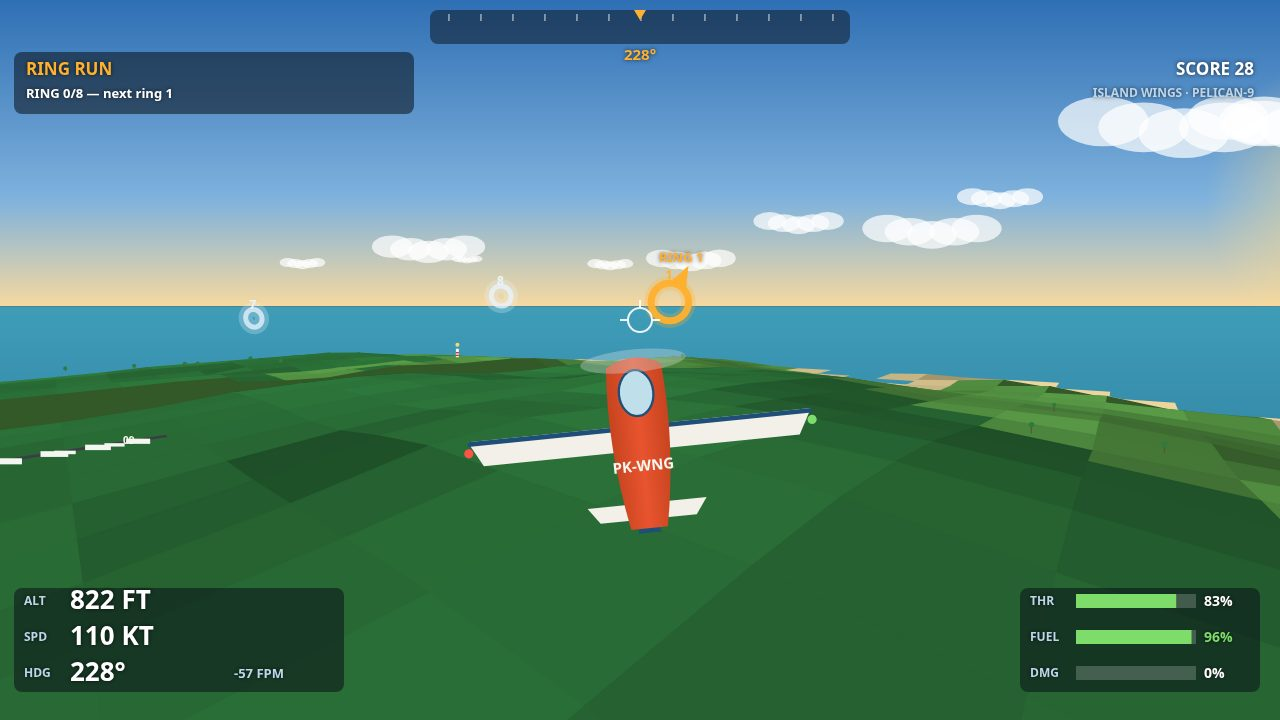
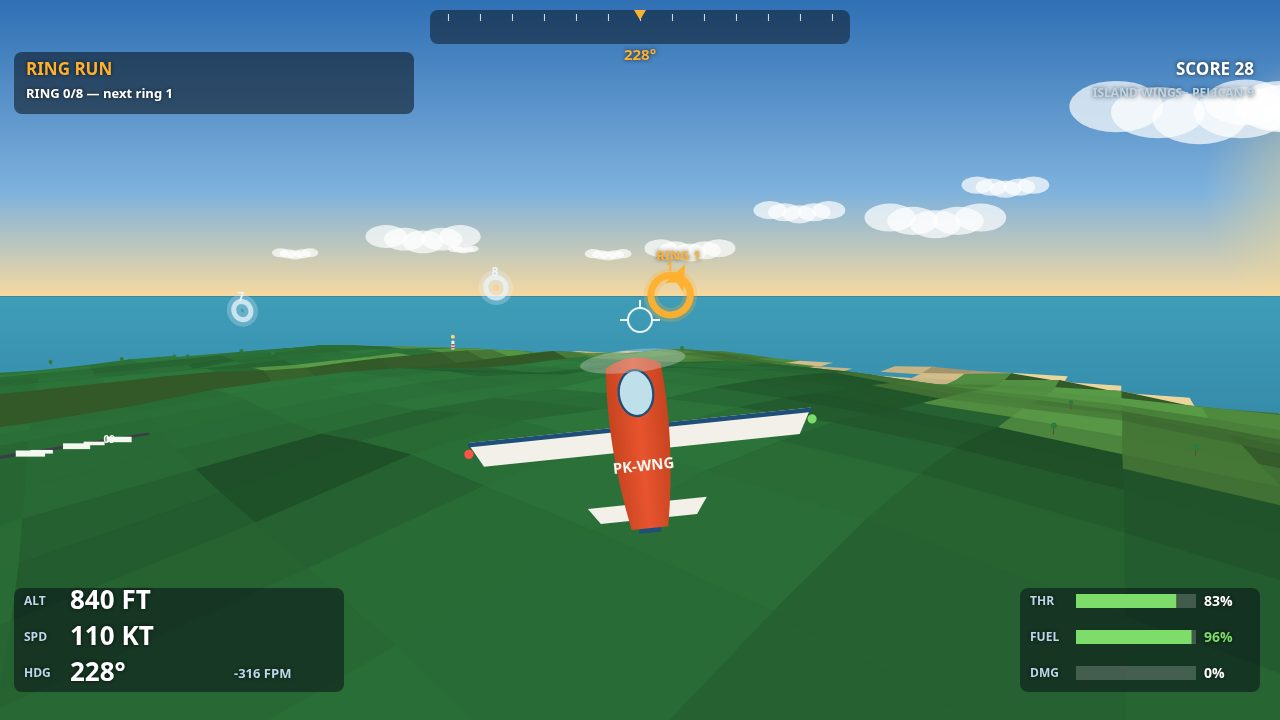
Island Wings: fix crosswind direction, landing model, title-screen polish
- Wind now from the north (true crosswind on runway 09); HUD + shot text updated
- Climb model: pitch angle is the flight-path angle (gentler, landable descents)
- Valley floor capped flat near the runway for a level approach
- Rough touchdown = single damage event + roll-out, liftoff allowed
- Title screen: short mission blurbs, no aircraft sprite over buttons
- Re-shot all 4 screenshots with the final model

diff --git a/game/src/flight-model.js b/game/src/flight-model.js
@@ -3,7 +3,7 @@
 // returns bit flags for what happened, so missions and sound can react
 // without the model knowing about screens.
 import { PLANE, RUNWAY, STEP } from './config.js';
-import { groundHeight, onRunway, inTouchdownZone } from './terrain.js';
+import { groundHeight, onAirfield, inTouchdownZone } from './terrain.js';
 
 export const EVENT_TOUCHDOWN = 1;
 export const EVENT_CRASH = 2;
@@ -117,9 +117,11 @@ export function createFlight() {
     const turnRate = (9.81 * Math.tan((state.bank * Math.PI) / 180)) / Math.max(20, speedMs);
     state.heading = (state.heading + (turnRate * 180) / Math.PI * dt + 360) % 360;
 
-    // Lift grows with speed squared; below stall the aircraft sinks.
-    const lift = clamp((state.speedKt / PLANE.stallSpeedKt) ** 2, 0, 1.6);
-    const climbMs = speedMs * Math.sin((state.pitch * Math.PI) / 180) * lift;
+    // The pitch angle is the flight path angle: the vertical speed is the
+    // speed along the flight path, so a -4 deg descent at 80 kt is about
+    // -2.8 m/s — gentle enough to land on. Below stall speed the wing
+    // stops lifting and the aircraft sinks.
+    const climbMs = speedMs * Math.sin((state.pitch * Math.PI) / 180);
     const sinkMs = stalled ? (PLANE.stallSpeedKt - state.speedKt) * KT_TO_MS * 0.55 : 0;
     state.verticalSpeed = climbMs - sinkMs;
 
@@ -129,18 +131,21 @@ export function createFlight() {
     state.y += state.verticalSpeed * dt;
 
     // Wind pushes the aircraft sideways; on the landing mission it is a
-    // crosswind from the west that the pilot must crab into.
-    state.x += (PLANE.crosswindKt * KT_TO_MS * 0.28) * dt;
+    // crosswind from the north that the pilot must crab into: it drifts
+    // the aircraft south, across runway 09.
+    state.z += (PLANE.crosswindKt * KT_TO_MS * 0.28) * dt;
 
-    // Ground contact: a gentle touchdown on the runway is a landing;
-    // anything else at speed is a crash.
+    // Ground contact: a gentle touchdown on the runway is a landing; a
+    // gentle touchdown anywhere else is a rough landing — damage once,
+    // then a roll-out the pilot can take off from again. Only a hard
+    // impact, a steeply banked touchdown or an overspeed one is a crash.
     const ground = groundHeight(state.x, state.z);
     if (state.y <= ground + 1.4) {
       state.y = ground + 1.4;
       if (!state.onGround) {
         const vs = state.verticalSpeed;
         const aligned = Math.abs(angleDelta(state.heading, RUNWAY.heading)) < 22 || Math.abs(angleDelta(state.heading, RUNWAY.heading + 180)) < 22;
-        if (onRunway(state.x, state.z) && vs > -3.2 && Math.abs(state.bank) < 12 && aligned && state.speedKt > 45 && state.speedKt < 115) {
+        if (onAirfield(state.x, state.z) && vs > -3.2 && Math.abs(state.bank) < 12 && aligned && state.speedKt > 45 && state.speedKt < 115) {
           state.onGround = true;
           state.landed = true;
           state.pitch = 0;
@@ -152,10 +157,18 @@ export function createFlight() {
           state.damage = 100;
           events |= EVENT_CRASH;
         } else {
-          // A rough touchdown off the runway: damage, bounce, keep flying.
-          state.damage = Math.min(100, state.damage + 22);
-          state.verticalSpeed = Math.abs(vs) * 0.25;
-          state.y = ground + 1.4 + 0.5;
+          // A rough touchdown: damage once per landing event, then a
+          // roll-out the pilot can take off from again. A porpoise —
+          // touch, lift, touch again within a few seconds — is one
+          // landing, not five, so damage has a short cooldown.
+          if (state.time - (state.lastRoughTouchdown ?? -99) > 3) {
+            state.damage = Math.min(100, state.damage + 22);
+            state.lastRoughTouchdown = state.time;
+          }
+          state.onGround = true;
+          state.pitch = 0;
+          state.bank = 0;
+          state.verticalSpeed = 0;
           events |= EVENT_TOUCHDOWN;
           if (state.damage >= 100) {
             state.crashed = true;
@@ -171,6 +184,17 @@ export function createFlight() {
         state.speedKt = Math.max(0, state.speedKt - 9 * dt);
         state.y = ground + 1.4;
       }
+    }
+
+    // Take-off again: full throttle and a pull on the stick lift off, so a
+    // landing outside the zone is a go-around, not a dead end. This runs
+    // outside the ground-contact block on purpose: the moment the stick
+    // pulls up, the aircraft is already climbing off the ground, and the
+    // contact block no longer runs.
+    if (state.onGround && state.throttle > 0.7 && stick.pitch > 0.2 && state.speedKt > 70) {
+      state.onGround = false;
+      state.landed = false;
+      state.pitch = 5;
     }
     return events;
   }

diff --git a/game/src/terrain.js b/game/src/terrain.js
@@ -32,12 +32,14 @@ export function groundHeight(x, z) {
   const ridge = Math.exp(-((z + 1150) * (z + 1150)) / (2 * 420 * 420));
   h += 24 * ridge * falloff;
   // A flat coastal valley along the runway's east-west axis, so the
-  // landing approach flies over level ground instead of a hillside.
+  // landing approach flies over level ground instead of a hillside. The
+  // floor is flat near the centreline and rises to the hills at the
+  // valley's edges, so a touchdown anywhere in the valley is survivable.
   const dz = Math.abs(z - RUNWAY.z);
   if (dz < 260 && x > -1900 && x < 1900) {
-    const tz = smoothstep(0, 1, (260 - dz) / 130);
+    const cap = 8 + 40 * smoothstep(0, 1, (dz - 140) / 120);
     const tx = smoothstep(0, 1, Math.min(x + 1900, 1900 - x) / 200);
-    h = h * (1 - tz * tx) + 8 * tz * tx;
+    h = Math.min(h, cap) * tx + h * (1 - tx);
   }
   // Flatten the runway apron into the island.
   if (x > APRON.x0 && x < APRON.x1 && z > APRON.z0 && z < APRON.z1) {
@@ -52,6 +54,15 @@ export function groundHeight(x, z) {
 /** True when (x, z) is on the runway strip. */
 export function onRunway(x, z) {
   return Math.abs(x - RUNWAY.x) <= RUNWAY.length / 2 && Math.abs(z - RUNWAY.z) <= RUNWAY.width / 2;
+}
+
+/**
+ * True when (x, z) is on the runway or its shoulders: the landing check
+ * allows a few metres either side, so a landing a metre off the painted
+ * edge still counts as a landing, not a crash.
+ */
+export function onAirfield(x, z) {
+  return Math.abs(x - RUNWAY.x) <= RUNWAY.length / 2 + 10 && Math.abs(z - RUNWAY.z) <= RUNWAY.width / 2 + 4;
 }
 
 /** True when (x, z) is inside the touchdown zone (first third, runway 09). */

diff --git a/game/src/config.js b/game/src/config.js
@@ -26,7 +26,7 @@ export const PLANE = {
   maxPitch: 24,
   /** Fuel percent burned per second at full throttle. */
   fuelBurn: 0.32,
-  /** Knots of wind from the west on the landing mission (crosswind). */
+  /** Knots of wind from the north on the landing mission (crosswind). */
   crosswindKt: 14,
 };
 
@@ -60,9 +60,9 @@ export const SUPPLY = {
 };
 
 export const MISSIONS = [
-  { id: 'rings', name: 'RING RUN', goal: 'Fly through all 8 rings in order' },
-  { id: 'landing', name: 'CROSSWIND LANDING', goal: 'Land on runway 09 inside the touchdown zone' },
-  { id: 'supply', name: 'SUPPLY DROP', goal: 'Drop 3 crates on the marked zones before the clock runs out' },
+  { id: 'rings', name: 'RING RUN', goal: 'Fly through all 8 rings in order', blurb: '8 rings, in order' },
+  { id: 'landing', name: 'CROSSWIND LANDING', goal: 'Land on runway 09 inside the touchdown zone', blurb: 'Land in the zone' },
+  { id: 'supply', name: 'SUPPLY DROP', goal: 'Drop 3 crates on the marked zones before the clock runs out', blurb: '3 crates, beat the clock' },
 ];
 
 export const PALETTE = {

diff --git a/game/src/main.js b/game/src/main.js
@@ -201,7 +201,7 @@ function runGame() {
     flight.state.fuel = 100;
     flight.state.damage = 0;
     flight.state.verticalSpeed = 0;
-    renderer.draw('play', world, t);
+    renderer.draw('title', world, t);
     Object.assign(flight.state, saved);
     ctx.fillStyle = 'rgba(8,14,22,0.55)';
     ctx.fillRect(0, 0, VIEW.width, VIEW.height);
@@ -227,7 +227,7 @@ function runGame() {
       ctx.fillText(MISSIONS[i].name, bx + 105, 500);
       ctx.fillStyle = selected ? '#1c2129' : '#eef1f5';
       ctx.font = '13px system-ui, sans-serif';
-      ctx.fillText(MISSIONS[i].goal, bx + 105, 528);
+      ctx.fillText(MISSIONS[i].blurb, bx + 105, 528);
       ctx.font = '12px system-ui, sans-serif';
       ctx.fillText(`Press ${i + 1}`, bx + 105, 548);
     }

diff --git a/game/src/hud.js b/game/src/hud.js
@@ -149,7 +149,7 @@ export function drawWarnings(ctx, flight, missions) {
   if (f.damage > 60 && f.damage < 100) warnings.push({ text: 'HEAVY DAMAGE — FLY GENTLY', color: PALETTE.hudAmber });
   if (missions.state.index === 1 && !missions.state.done && !f.onGround) {
     // Below the mission panel, never across it.
-    text(ctx, `WIND ${PLANE.crosswindKt} KT FROM THE WEST — CRAB INTO IT`, VIEW.width / 2, 130, 13, '#bcd6ea', 'center');
+    text(ctx, `WIND ${PLANE.crosswindKt} KT FROM THE NORTH — CRAB INTO IT`, VIEW.width / 2, 130, 13, '#bcd6ea', 'center');
   }
   warnings.forEach((w, i) => {
     text(ctx, w.text, VIEW.width / 2, 108 + i * 26, 17, w.color, 'center');

diff --git a/game/src/render.js b/game/src/render.js
@@ -541,7 +541,9 @@ export function createRenderer(canvas) {
     drawRings(camera, terrain, missions);
     drawZones(camera, terrain, missions);
     if (camera.state.view === 'cockpit') drawCockpit(flight);
-    else drawAircraft(flight, time);
+    // On the title screen the backdrop is a scenic orbit with no aircraft
+    // in it, so the plane never covers the mission buttons.
+    else if (screen !== 'title') drawAircraft(flight, time);
     // HUD on top of everything. In the cockpit the panel already carries
     // altitude, speed, heading and throttle as lit instruments, so the big
     // HUD blocks stay out of the way; in chase view they are the readout.

diff --git a/README.md b/README.md
@@ -26,7 +26,7 @@ http://localhost:8080). No build step, no network request.
 
 1. **Ring Run** — fly through all 8 rings in order around the island.
 2. **Crosswind Landing** — land on runway 09 inside the touchdown zone,
-   crabbing into a 14 kt crosswind from the west.
+   crabbing into a 14 kt crosswind from the north.
 3. **Supply Drop** — drop 3 crates on the marked zones before the clock
    runs out. Crates keep your forward speed, so lead the zone.
 
